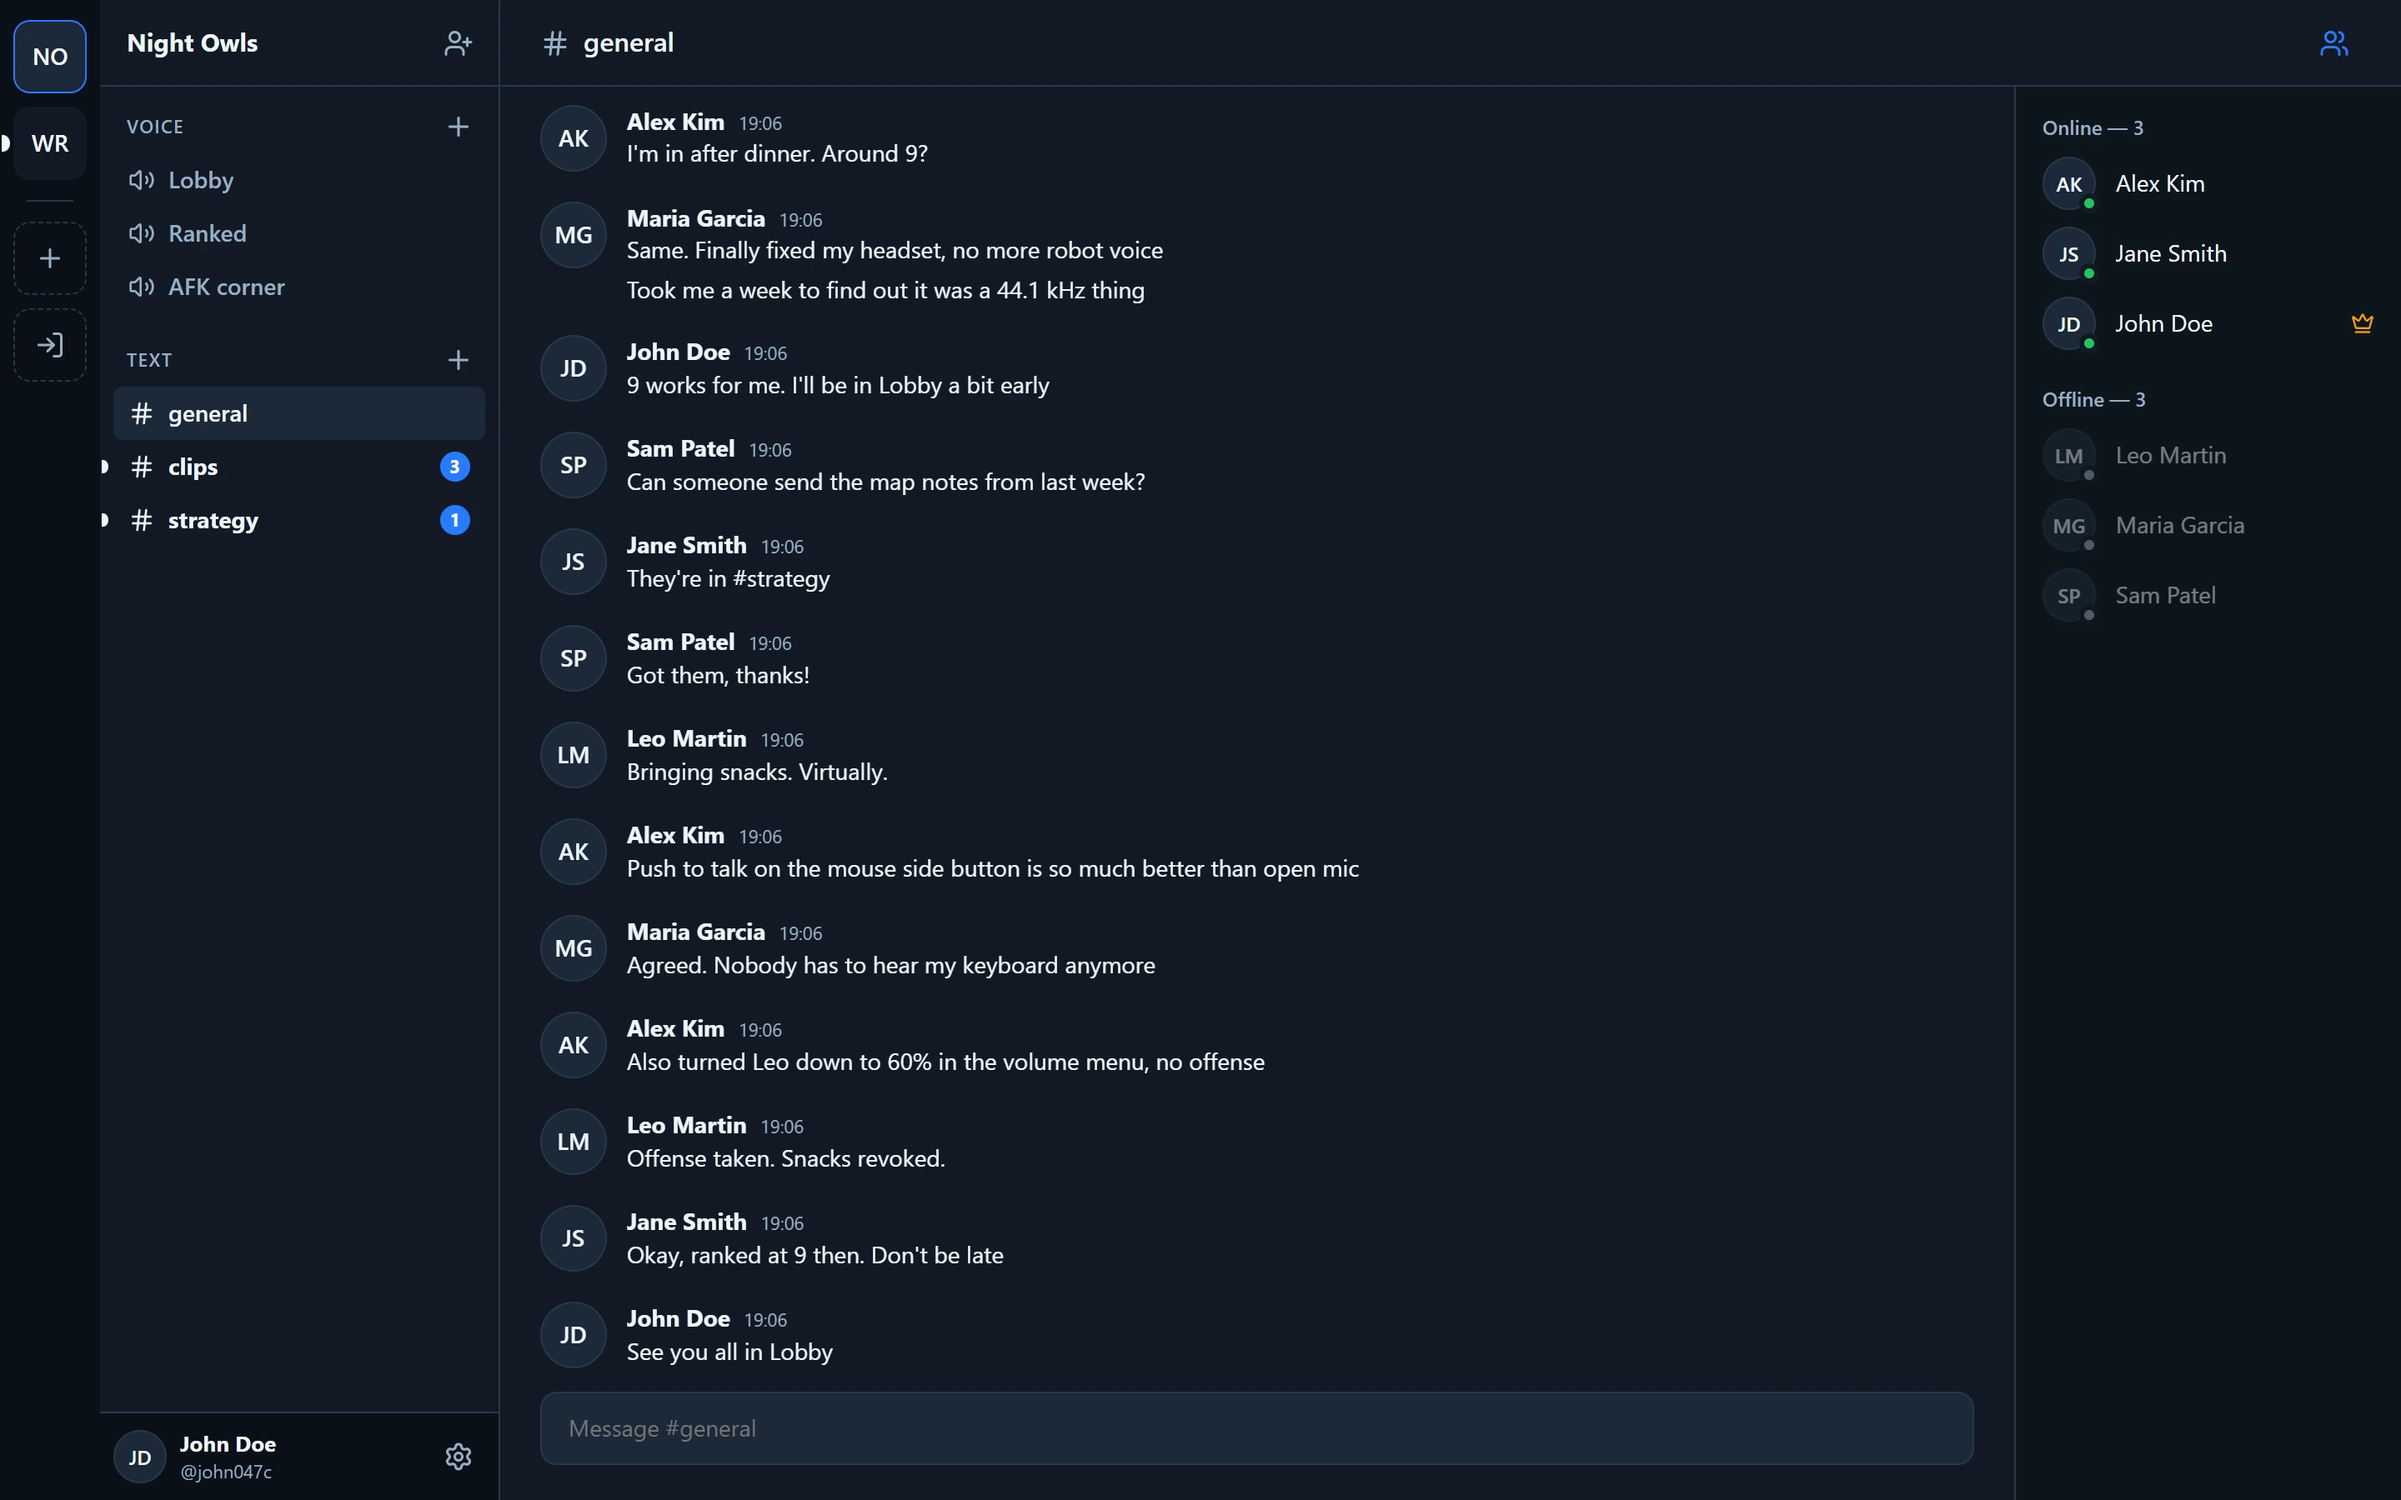
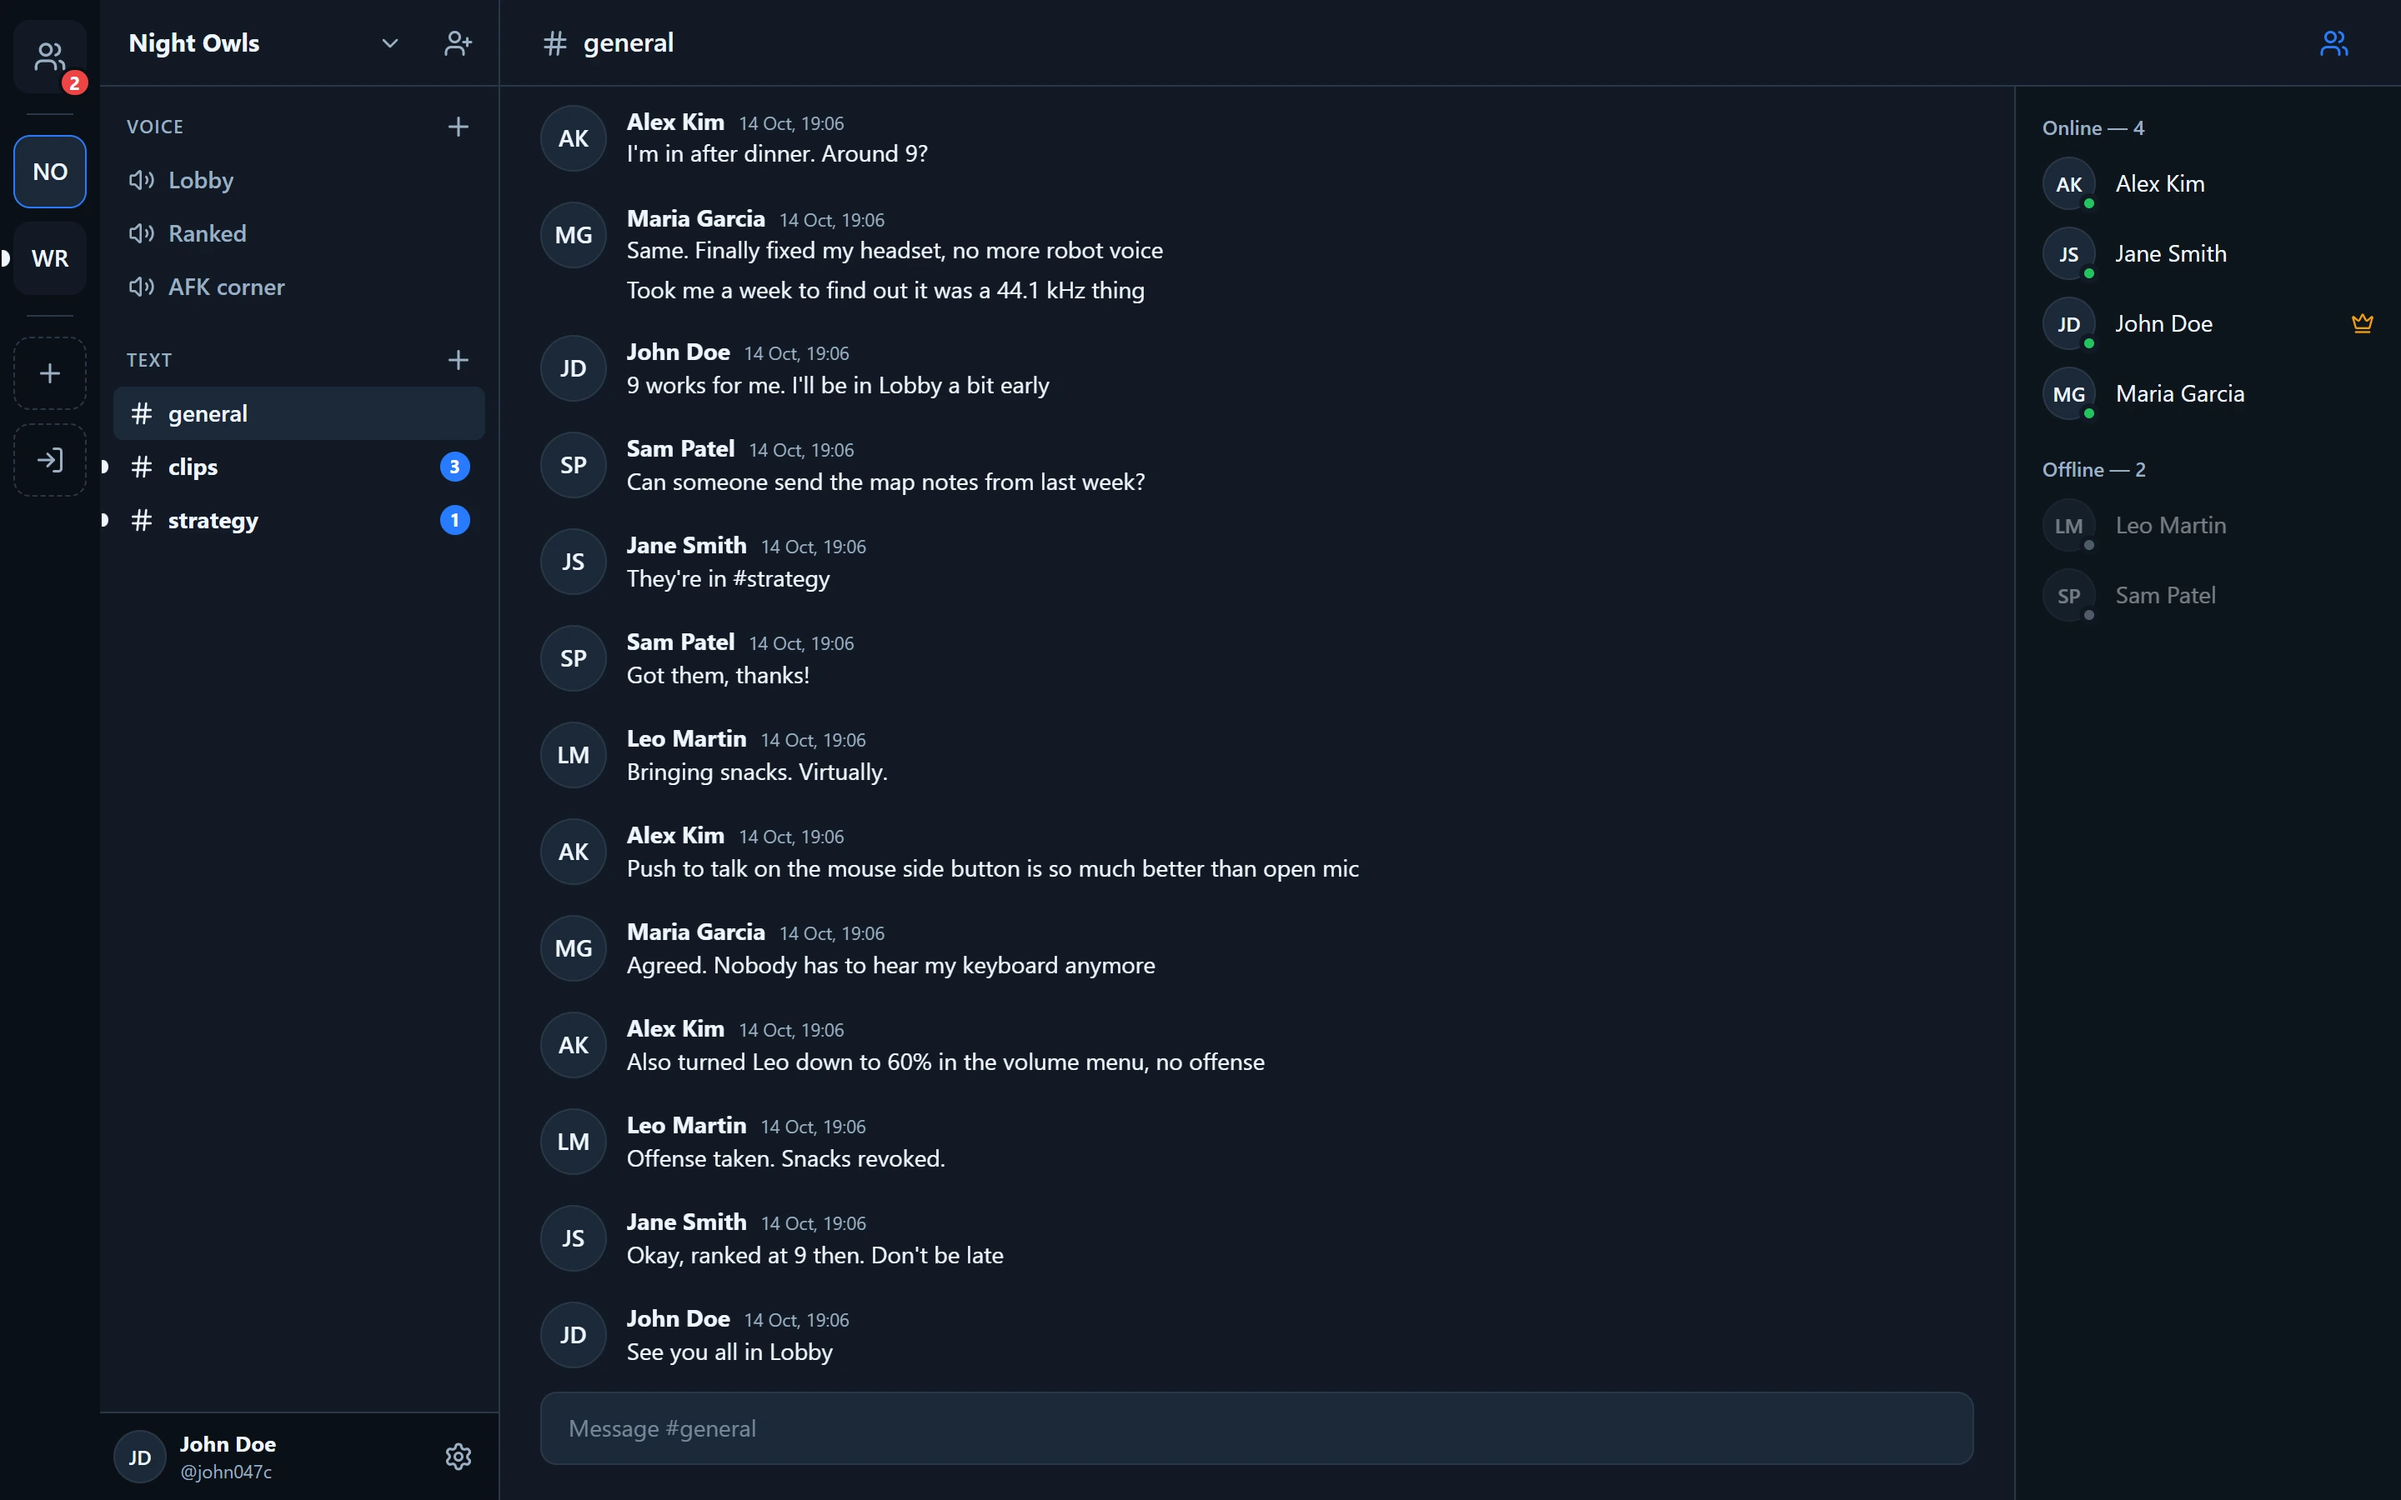
Site: friends and calls screenshots, roadmap, privacy and questions
- New section with screenshots of a group call, friends online and a
  community invitation in direct messages (made-up people)
- Fresh #general screenshot from the current app
- Coming next, Privacy plainly and Questions sections; footer links to
  GitHub issues for bug reports

diff --git a/index.html b/index.html
@@ -118,6 +118,39 @@
         box-shadow: 0 30px 80px -30px rgb(0 0 0 / 70%);
       }
       .shot figcaption { margin-top: 12px; color: var(--mist); font-size: 14px; }
+      .shot-note { margin: 12px 0 0; color: var(--mist); font-size: 14px; }
+      /* Two supporting views under the main one; they stack on narrow screens. */
+      .shot-pair { display: grid; grid-template-columns: 1fr 1fr; gap: 20px; margin-top: 20px; }
+
+      /* Plain information sections share the changelog's two-column rhythm. */
+      .info {
+        display: grid;
+        grid-template-columns: 220px minmax(0, 1fr);
+        gap: 56px;
+        padding: 64px 0 72px;
+        border-top: 1px solid var(--line);
+      }
+      .info h2 { margin: 0; font-size: 28px; font-weight: 800; letter-spacing: -0.02em; line-height: 1.15; }
+      .info h2 small { display: block; margin-top: 8px; color: var(--mist); font-size: 15px; font-weight: 400; letter-spacing: 0; }
+      .info-body { max-width: 40em; }
+      .info-body > p { margin: 0 0 16px; color: var(--mist); }
+      .facts { margin: 0; padding: 0; list-style: none; }
+      .facts li { padding: 14px 0; border-bottom: 1px solid var(--line); }
+      .facts li:first-child { padding-top: 0; }
+      .facts strong { display: block; color: var(--snow); font-weight: 600; }
+      .facts span { color: var(--mist); }
+      .faq details { border-bottom: 1px solid var(--line); }
+      .faq summary {
+        padding: 16px 0;
+        cursor: pointer;
+        font-weight: 600;
+        list-style: none;
+      }
+      .faq summary::-webkit-details-marker { display: none; }
+      .faq summary::after { content: "+"; float: right; color: var(--dusk); font-weight: 400; }
+      .faq details[open] summary::after { content: "–"; }
+      .faq details p { margin: 0 0 18px; color: var(--mist); }
+      footer a { color: var(--snow); }
 
       .changes {
         display: grid;
@@ -172,7 +205,9 @@
         .hero { grid-template-columns: 1fr; gap: 40px; padding: 16px 0 56px; }
         .scene { aspect-ratio: 16 / 10; border-radius: 4px 4px 96px 4px; order: -1; }
         .tour { grid-template-columns: 1fr; gap: 24px; padding: 48px 0 56px; }
+        .shot-pair { grid-template-columns: 1fr; }
         .changes { grid-template-columns: 1fr; gap: 28px; padding: 48px 0 64px; }
+        .info { grid-template-columns: 1fr; gap: 24px; padding: 48px 0 56px; }
         .changes h2 { position: static; }
         .release header a { margin-left: 0; }
       }
@@ -224,10 +259,111 @@
               width="1440"
               height="900"
               loading="lazy"
-              alt="The Ovrilo window: a community called Night Owls with voice and text channels, a group chat about meeting for a game at nine, and a member list with three people online"
+              alt="The Ovrilo window: a community called Night Owls with voice and text channels and unread counts, its #general chat about meeting for a game at nine, and a member list with four people online"
             />
             <figcaption>The people and messages in this picture are made up.</figcaption>
           </figure>
+        </section>
+
+        <section class="tour" aria-labelledby="friends-title">
+          <div class="tour-text">
+            <h2 id="friends-title">Friends, outside any community</h2>
+            <p>Add people by their username and see who is online. Message them directly, or start a group chat for the ones you play with every weekend.</p>
+            <p>Press the phone to ring a friend or the whole group. Everyone answers on their own, and the call works like a voice channel, screen sharing included.</p>
+            <p>Inviting a friend to a community takes one click: they get it in your messages with a Join button.</p>
+          </div>
+          <div>
+            <figure class="shot">
+              <img
+                src="assets/screenshot-call.webp"
+                width="1440"
+                height="900"
+                loading="lazy"
+                alt="A group chat called Saturday squad with four members planning a Saturday game, while Jane Smith is calling the group"
+              />
+            </figure>
+            <div class="shot-pair">
+              <figure class="shot">
+                <img
+                  src="assets/screenshot-friends.webp"
+                  width="1440"
+                  height="900"
+                  loading="lazy"
+                  alt="The Friends page with three friends online and one pending friend request"
+                />
+              </figure>
+              <figure class="shot">
+                <img
+                  src="assets/screenshot-invite.webp"
+                  width="1440"
+                  height="900"
+                  loading="lazy"
+                  alt="A direct message from Maria Garcia with an invitation card to a community called Speedrun Club and a Join button"
+                />
+              </figure>
+            </div>
+            <p class="shot-note">The people and messages in these pictures are made up.</p>
+          </div>
+        </section>
+
+        <section class="info" aria-labelledby="next-title">
+          <h2 id="next-title">Coming next <small>Plans, not promises</small></h2>
+          <div class="info-body">
+            <ul class="facts">
+              <li><strong>Right-click anyone in a member list</strong><span>to add them as a friend, message them or block them.</span></li>
+              <li><strong>Notifications</strong><span>for new messages and calls while Ovrilo sits in the tray.</span></li>
+              <li><strong>End-to-end encryption</strong><span>so that only the people in a conversation can read it. It is being designed now.</span></li>
+              <li><strong>macOS and Linux</strong><span>later. Ovrilo is Windows-only for now.</span></li>
+            </ul>
+          </div>
+        </section>
+
+        <section class="info" aria-labelledby="privacy-title">
+          <h2 id="privacy-title">Privacy, plainly</h2>
+          <div class="info-body">
+            <ul class="facts">
+              <li><strong>What is stored</strong><span>Your account (username, display name, email and a hashed password), your communities, messages in channels, direct messages and group chats, and the pictures you upload.</span></li>
+              <li><strong>Calls are not recorded</strong><span>Voice and screen shares pass through the server to the others in the call and are not kept.</span></li>
+              <li><strong>Encrypted on the way, not end to end yet</strong><span>Everything travels over encrypted connections, but messages are stored readable on the server. End-to-end encryption is planned.</span></li>
+              <li><strong>Pictures stay private</strong><span>A community's pictures are shown only to its members.</span></li>
+              <li><strong>Your sign-in stays in Windows</strong><span>Ovrilo keeps it in Windows Credential Manager, not in a file.</span></li>
+              <li><strong>Deleting your account</strong><span>There is no button for it yet. <a href="https://github.com/Ovrilo/ovrilo-releases/issues">Ask us</a> and we remove your account and messages.</span></li>
+            </ul>
+          </div>
+        </section>
+
+        <section class="info faq" aria-labelledby="faq-title">
+          <h2 id="faq-title">Questions</h2>
+          <div class="info-body">
+            <details>
+              <summary>Why does Windows say the publisher is unknown?</summary>
+              <p>The installer isn't code-signed yet; a signing certificate costs money this project doesn't have. Choose More info, then Run anyway. Updates are different: Ovrilo checks each update's signature before installing it.</p>
+            </details>
+            <details>
+              <summary>Is Ovrilo free?</summary>
+              <p>Yes. It is a non-commercial project made for a group of friends, with no ads and nothing to pay for.</p>
+            </details>
+            <details>
+              <summary>What do I need?</summary>
+              <p>Windows 10 or 11 (64-bit) and a microphone. Headphones work best, though echo cancellation copes with speakers. Ovrilo uses Microsoft WebView2, which comes with Windows 11; if it is missing, the installer downloads it.</p>
+            </details>
+            <details>
+              <summary>How do updates arrive?</summary>
+              <p>Ovrilo looks for a new version when it starts and every few hours after that, and offers to install it. Closing the window keeps Ovrilo running in the tray, so to start fresh, right-click the tray icon and choose Quit, then open Ovrilo again.</p>
+            </details>
+            <details>
+              <summary>Why is Ovrilo still running after I close the window?</summary>
+              <p>So a call keeps going and friends can still reach you. Right-click the tray icon and choose Quit to close it completely.</p>
+            </details>
+            <details>
+              <summary>How do I uninstall it?</summary>
+              <p>Open Windows Settings, then Apps, then Installed apps, find Ovrilo and choose Uninstall.</p>
+            </details>
+            <details>
+              <summary>Where do I report a bug or suggest something?</summary>
+              <p>Open an issue on <a href="https://github.com/Ovrilo/ovrilo-releases/issues">GitHub</a>. Saying what you did, what you expected and what happened helps a lot.</p>
+            </details>
+          </div>
         </section>
 
         <section class="changes" aria-labelledby="changes-title">
@@ -238,7 +374,7 @@
         </section>
       </main>
 
-      <footer>Windows 10 and 11, 64-bit.</footer>
+      <footer>Windows 10 and 11, 64-bit. Found a bug? <a href="https://github.com/Ovrilo/ovrilo-releases/issues">Tell us on GitHub</a>.</footer>
     </div>
 
     <script>
